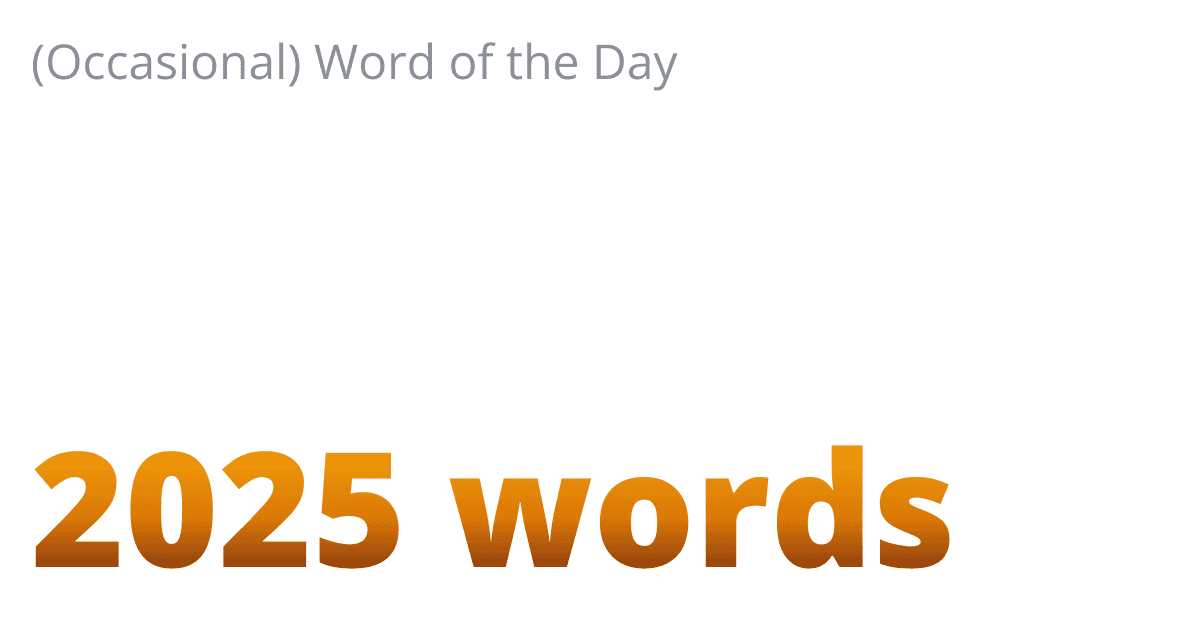
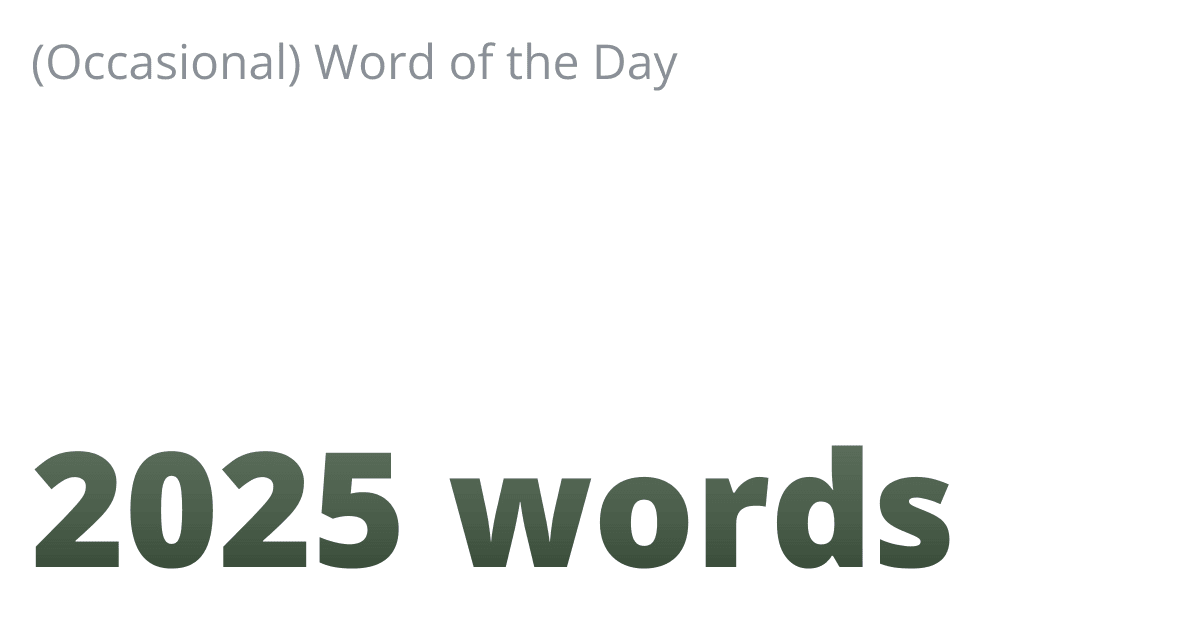
Update image generation logic

Changed region(s): [[0.37, 0.6937, 0.8017, 0.9048], [0.0308, 0.6937, 0.3392, 0.9048]]

diff --git a/tools/generate-word-images.ts b/tools/generate-word-images.ts
@@ -1,10 +1,4 @@
-import fs from 'fs/promises';
-import path from 'path';
-import sharp from 'sharp';
-
-import { paths } from '~config/paths';
-
-import { getAllWords, isUsingDemoWords, generateShareImage, createWordSvg } from '~tools/utils';
+import { generateShareImage, getAllWords, isUsingDemoWords } from '~tools/utils';
 
 /**
  * Generates social share images for all words in the collection
@@ -13,30 +7,13 @@ import { getAllWords, isUsingDemoWords, generateShareImage, createWordSvg } from
 async function generateWordImages(): Promise<void> {
   const words = getAllWords();
   const usingDemo = isUsingDemoWords();
-  const baseOutputDir = usingDemo
-    ? path.join(paths.images, 'social', 'demo')
-    : path.join(paths.images, 'social');
 
   console.log(`Generating images for ${words.length} words (${usingDemo ? 'demo' : 'production'} mode)`);
 
   for (const word of words) {
-    const year = word.date.slice(0, 4);
-    const yearDir = path.join(baseOutputDir, year);
-    await fs.mkdir(yearDir, { recursive: true });
-
-    const svg = createWordSvg(word.word, word.date);
-    const outputPath = path.join(yearDir, `${word.date}-${word.word}.png`);
-
     try {
-      await sharp(Buffer.from(svg))
-        .png({
-          compressionLevel: 9,
-          palette: true,
-          quality: 90,
-          colors: 128,
-        })
-        .toFile(outputPath);
-      console.log(`Generated image for ${word.word} (${word.date}) in ${yearDir}`);
+      await generateShareImage(word.word, word.date);
+      console.log(`Generated image for ${word.word} (${word.date})`);
     } catch (error) {
       console.error(`Error generating image for ${word.word}:`, error);
     }

diff --git a/tools/ping-search-engines.ts b/tools/ping-search-engines.ts
@@ -179,7 +179,7 @@ async function pingAll(): Promise<void> {
   const results = await Promise.all(
     engineList.map(engineObj => pingSearchEngine(engineObj).catch(error => error)),
   );
-  
+
   results.forEach(result => {
     if (result.error) {
       console.error('Failed to ping search engine', { engine: result.engine, error: result.error });

diff --git a/tools/generate-word-data.ts b/tools/generate-word-data.ts
@@ -2,7 +2,6 @@ import fs from 'fs';
 
 import { getAdapter } from '~adapters/factory';
 import { paths } from '~config/paths';
-
 import { getAllWordFiles, getAllWords, updateWordFile } from '~tools/utils';
 import { generateWordDataHash } from '~utils/word-data-utils';
 

diff --git a/tools/generate-generic-images.ts b/tools/generate-generic-images.ts
@@ -1,5 +1,5 @@
-import { getStaticPages } from '~utils/page-utils';
 import { generateGenericShareImage } from '~tools/utils';
+import { getStaticPages } from '~utils/page-utils';
 import { getAvailableYears } from '~utils/word-data-utils';
 
 /**

diff --git a/tools/generate-page-image.ts b/tools/generate-page-image.ts
@@ -1,5 +1,5 @@
-import { getStaticPages } from '~utils/page-utils';
 import { generateGenericShareImage } from '~tools/utils';
+import { getStaticPages } from '~utils/page-utils';
 
 /**
  * Generates a social share image for a specific page
